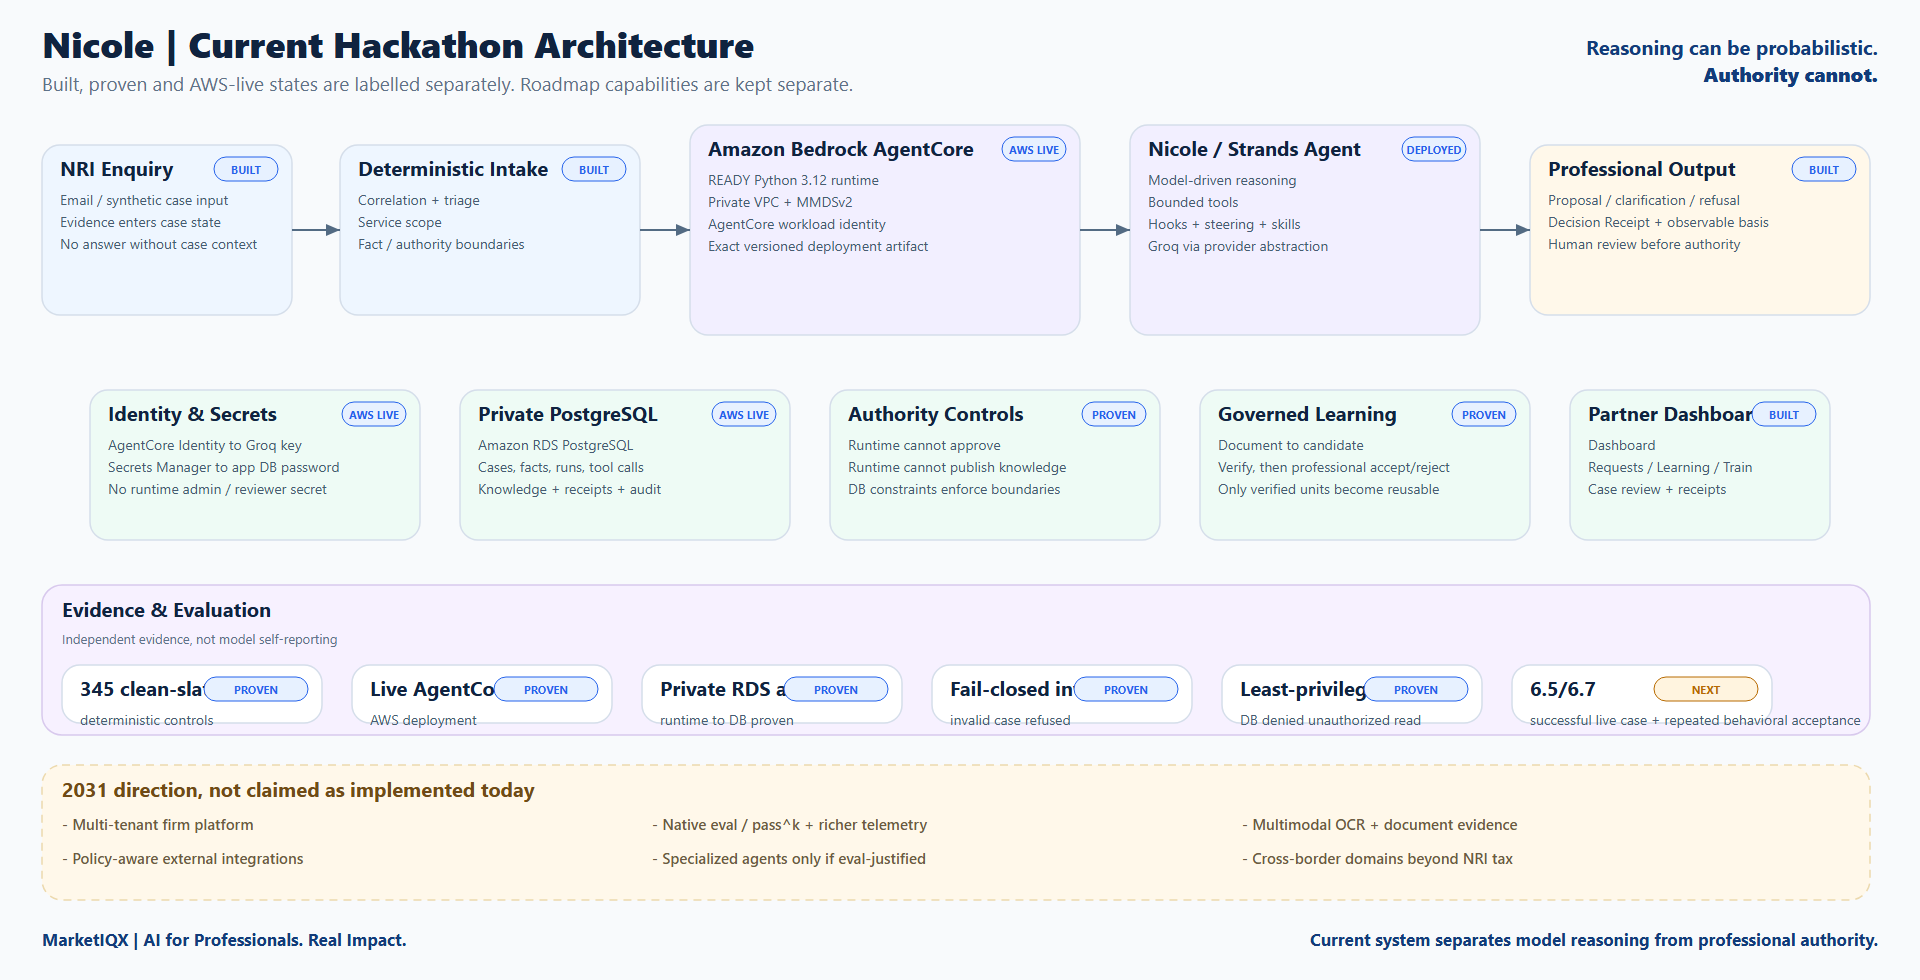
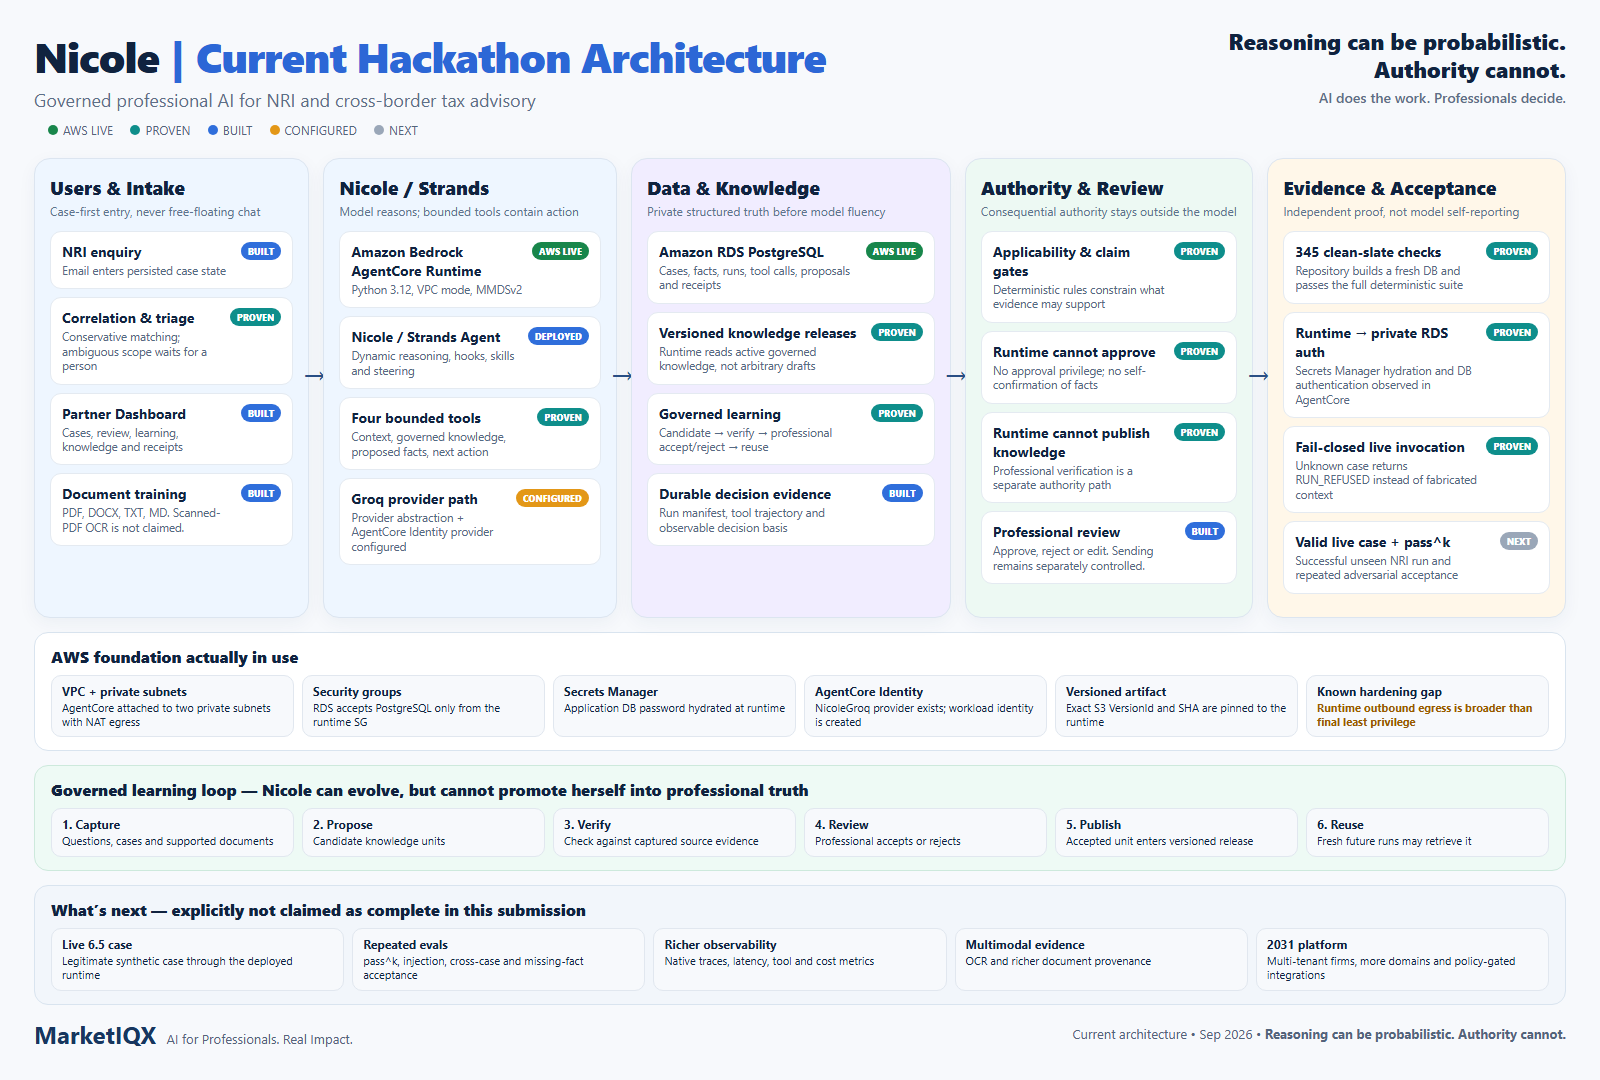
Replace submission architecture with verified current-state diagram

diff --git a/docs/SUBMISSION.md b/docs/SUBMISSION.md
@@ -111,7 +111,7 @@ Other known limits:
 We would rather show those limits than erase the boundary that makes the product trustworthy.
 ## Architecture diagrams
 
-- **Current implementation:** [`docs/architecture/nicole-live-architecture.svg`](architecture/nicole-live-architecture.svg)
+- **Current implementation:** [`docs/architecture/nicole-live-architecture.png`](architecture/nicole-live-architecture.svg)
 - **2031 target architecture:** [`docs/architecture/nicole-2031-vision.svg`](architecture/nicole-2031-vision.svg)
 
 The first is the hackathon evidence claim. The second is the long-term product thesis.

diff --git a/docs/ARCHITECTURE.md b/docs/ARCHITECTURE.md
@@ -4,7 +4,7 @@
 
 This document describes the architecture we can defend for the AWS Agents for Humans submission. It separates current implementation evidence from roadmap intent.
 
-- **Live diagram:** [`architecture/nicole-live-architecture.svg`](architecture/nicole-live-architecture.svg)
+- **Live diagram:** [`architecture/nicole-live-architecture.png`](architecture/nicole-live-architecture.png)
 - **2031 target:** [`architecture/nicole-2031-vision.svg`](architecture/nicole-2031-vision.svg)
 
 The live diagram is the submission claim. The 2031 diagram is the product thesis.

diff --git a/README.md b/README.md
@@ -43,7 +43,7 @@ There is no generic shell, generic HTTP tool, approval tool, knowledge-publicati
 
 ### Live hackathon implementation
 
-![Nicole live architecture](docs/architecture/nicole-live-architecture.svg)
+![Nicole live architecture](docs/architecture/nicole-live-architecture.png)
 
 The live deployment separates five concerns:
 

diff --git a/docs/architecture/README.md b/docs/architecture/README.md
@@ -1,6 +1,6 @@
 # Nicole architecture diagrams
 
-## `nicole-live-architecture.svg`
+## `nicole-live-architecture.png`
 Primary hackathon / Devpost architecture diagram. Status labels are deliberate:
 
 - **BUILT** - implemented in the repository/product surface.
